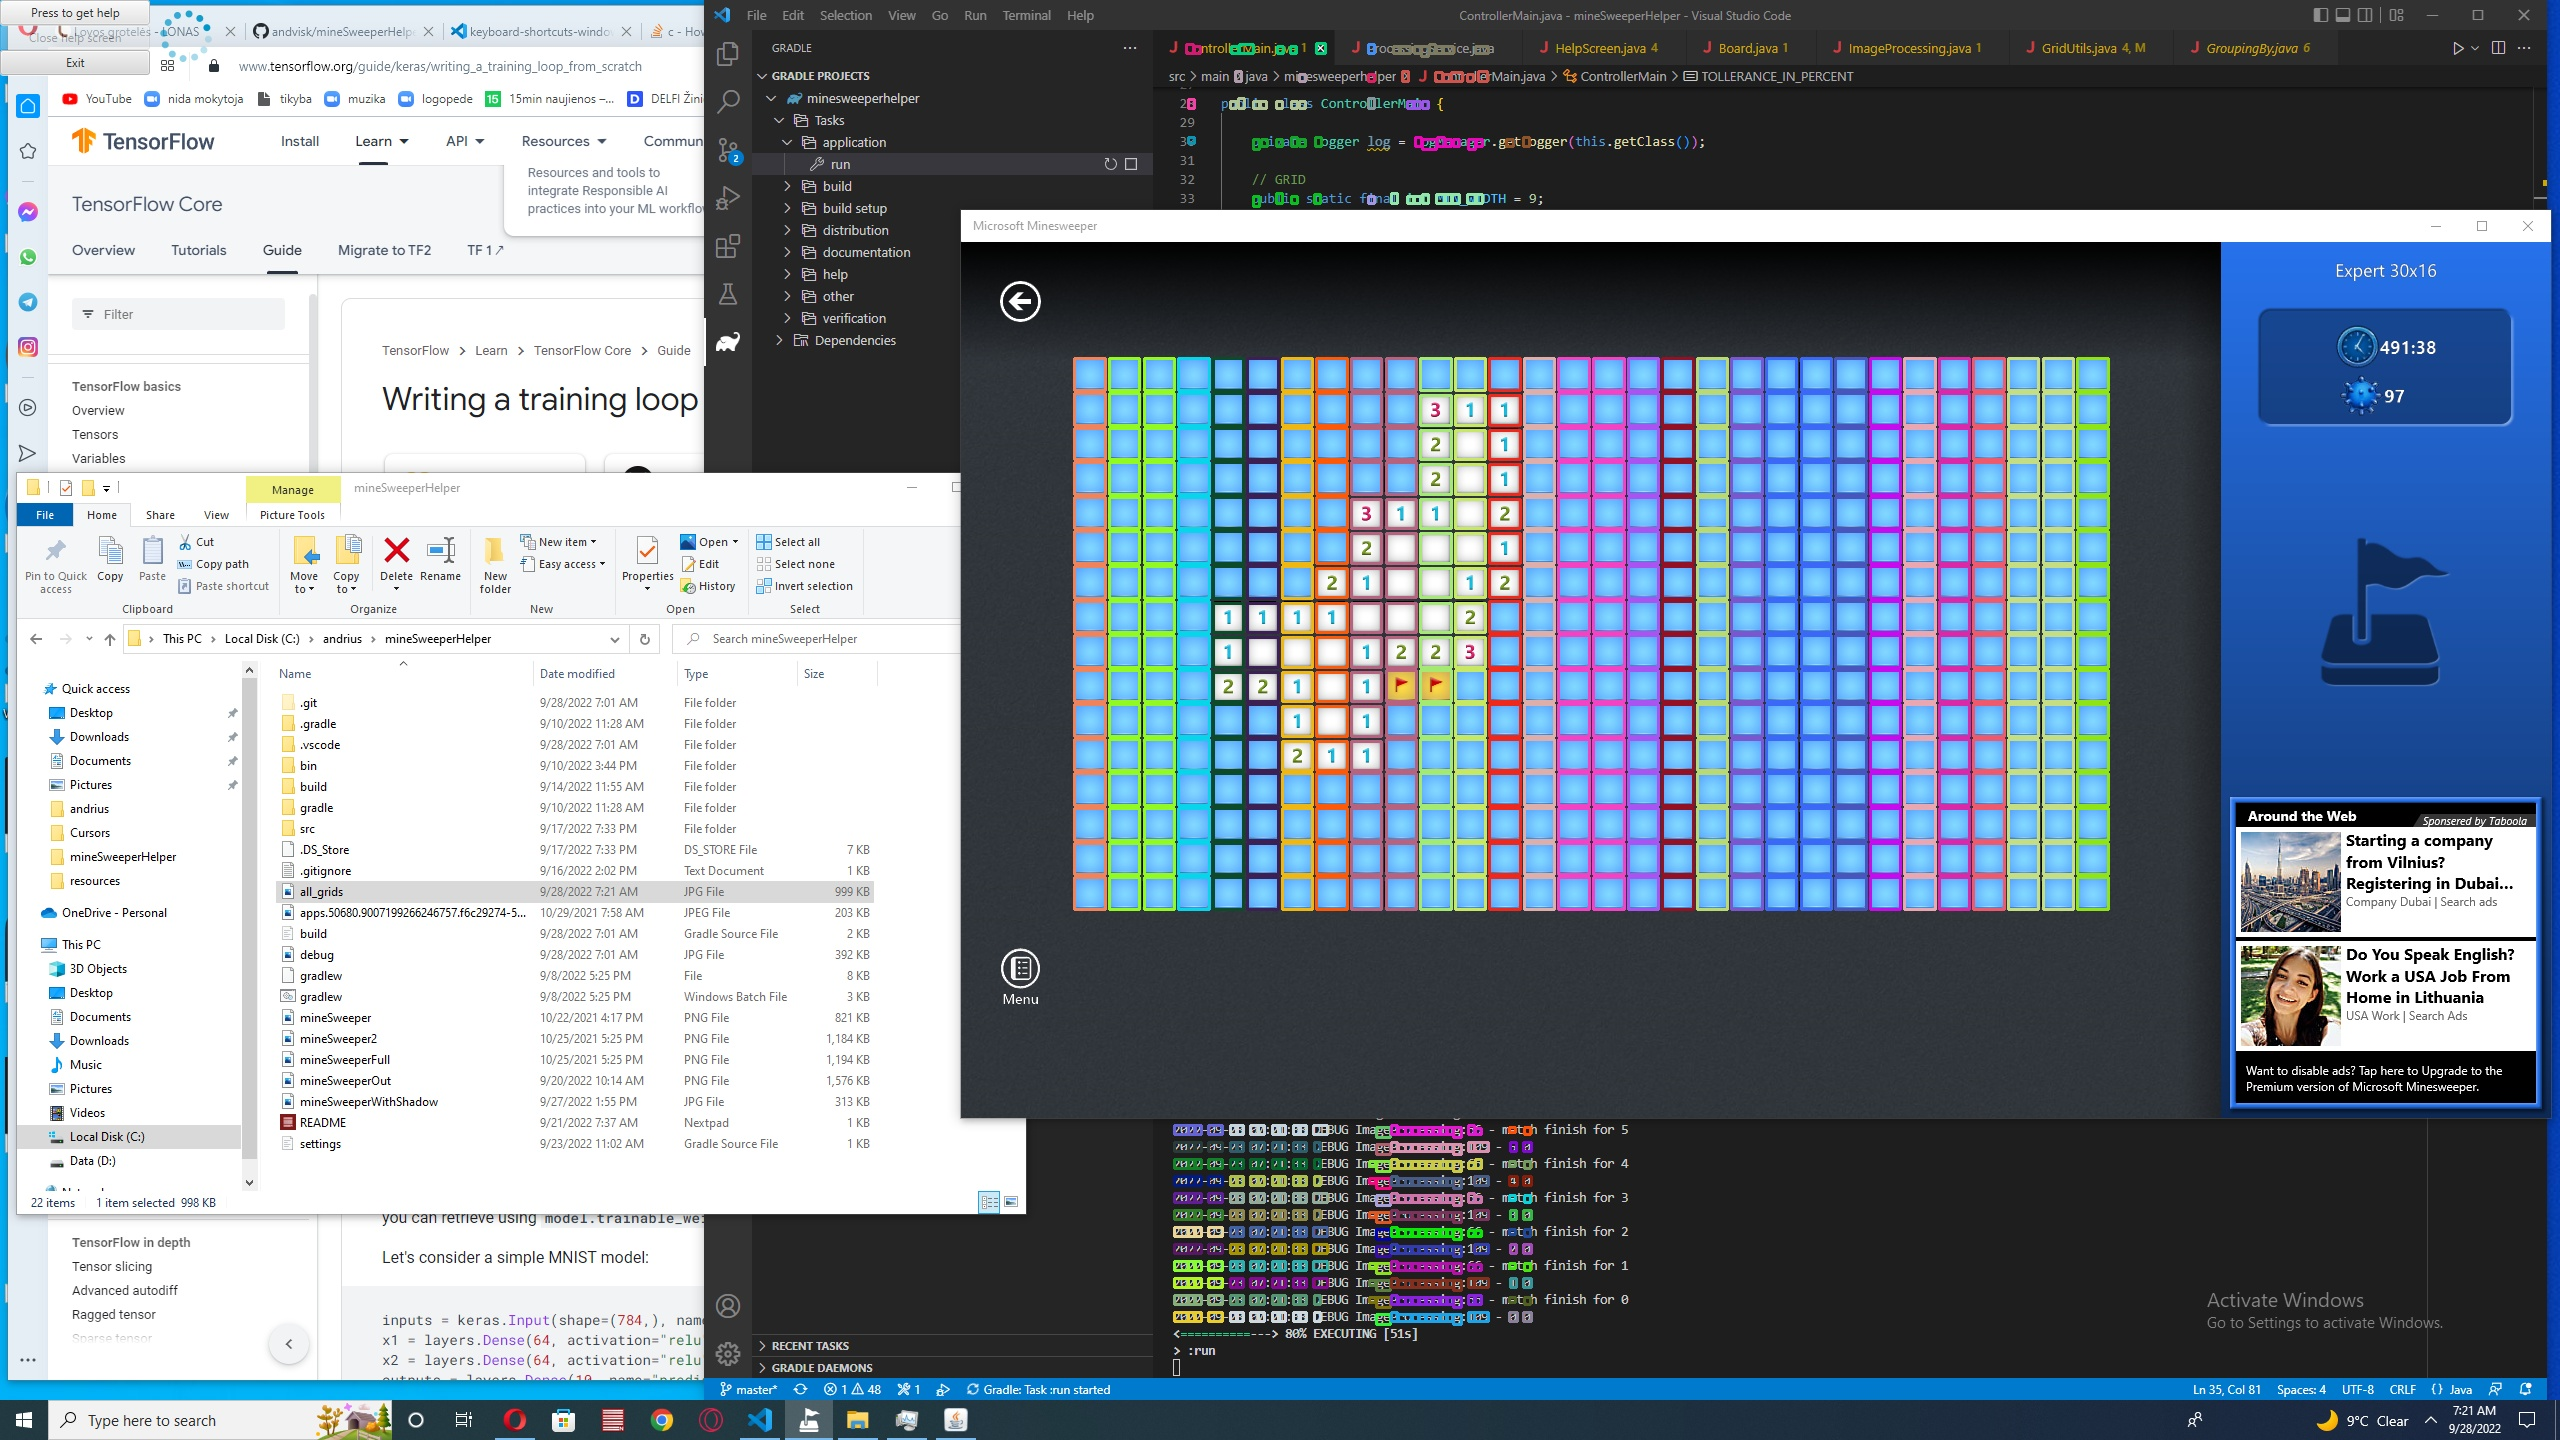
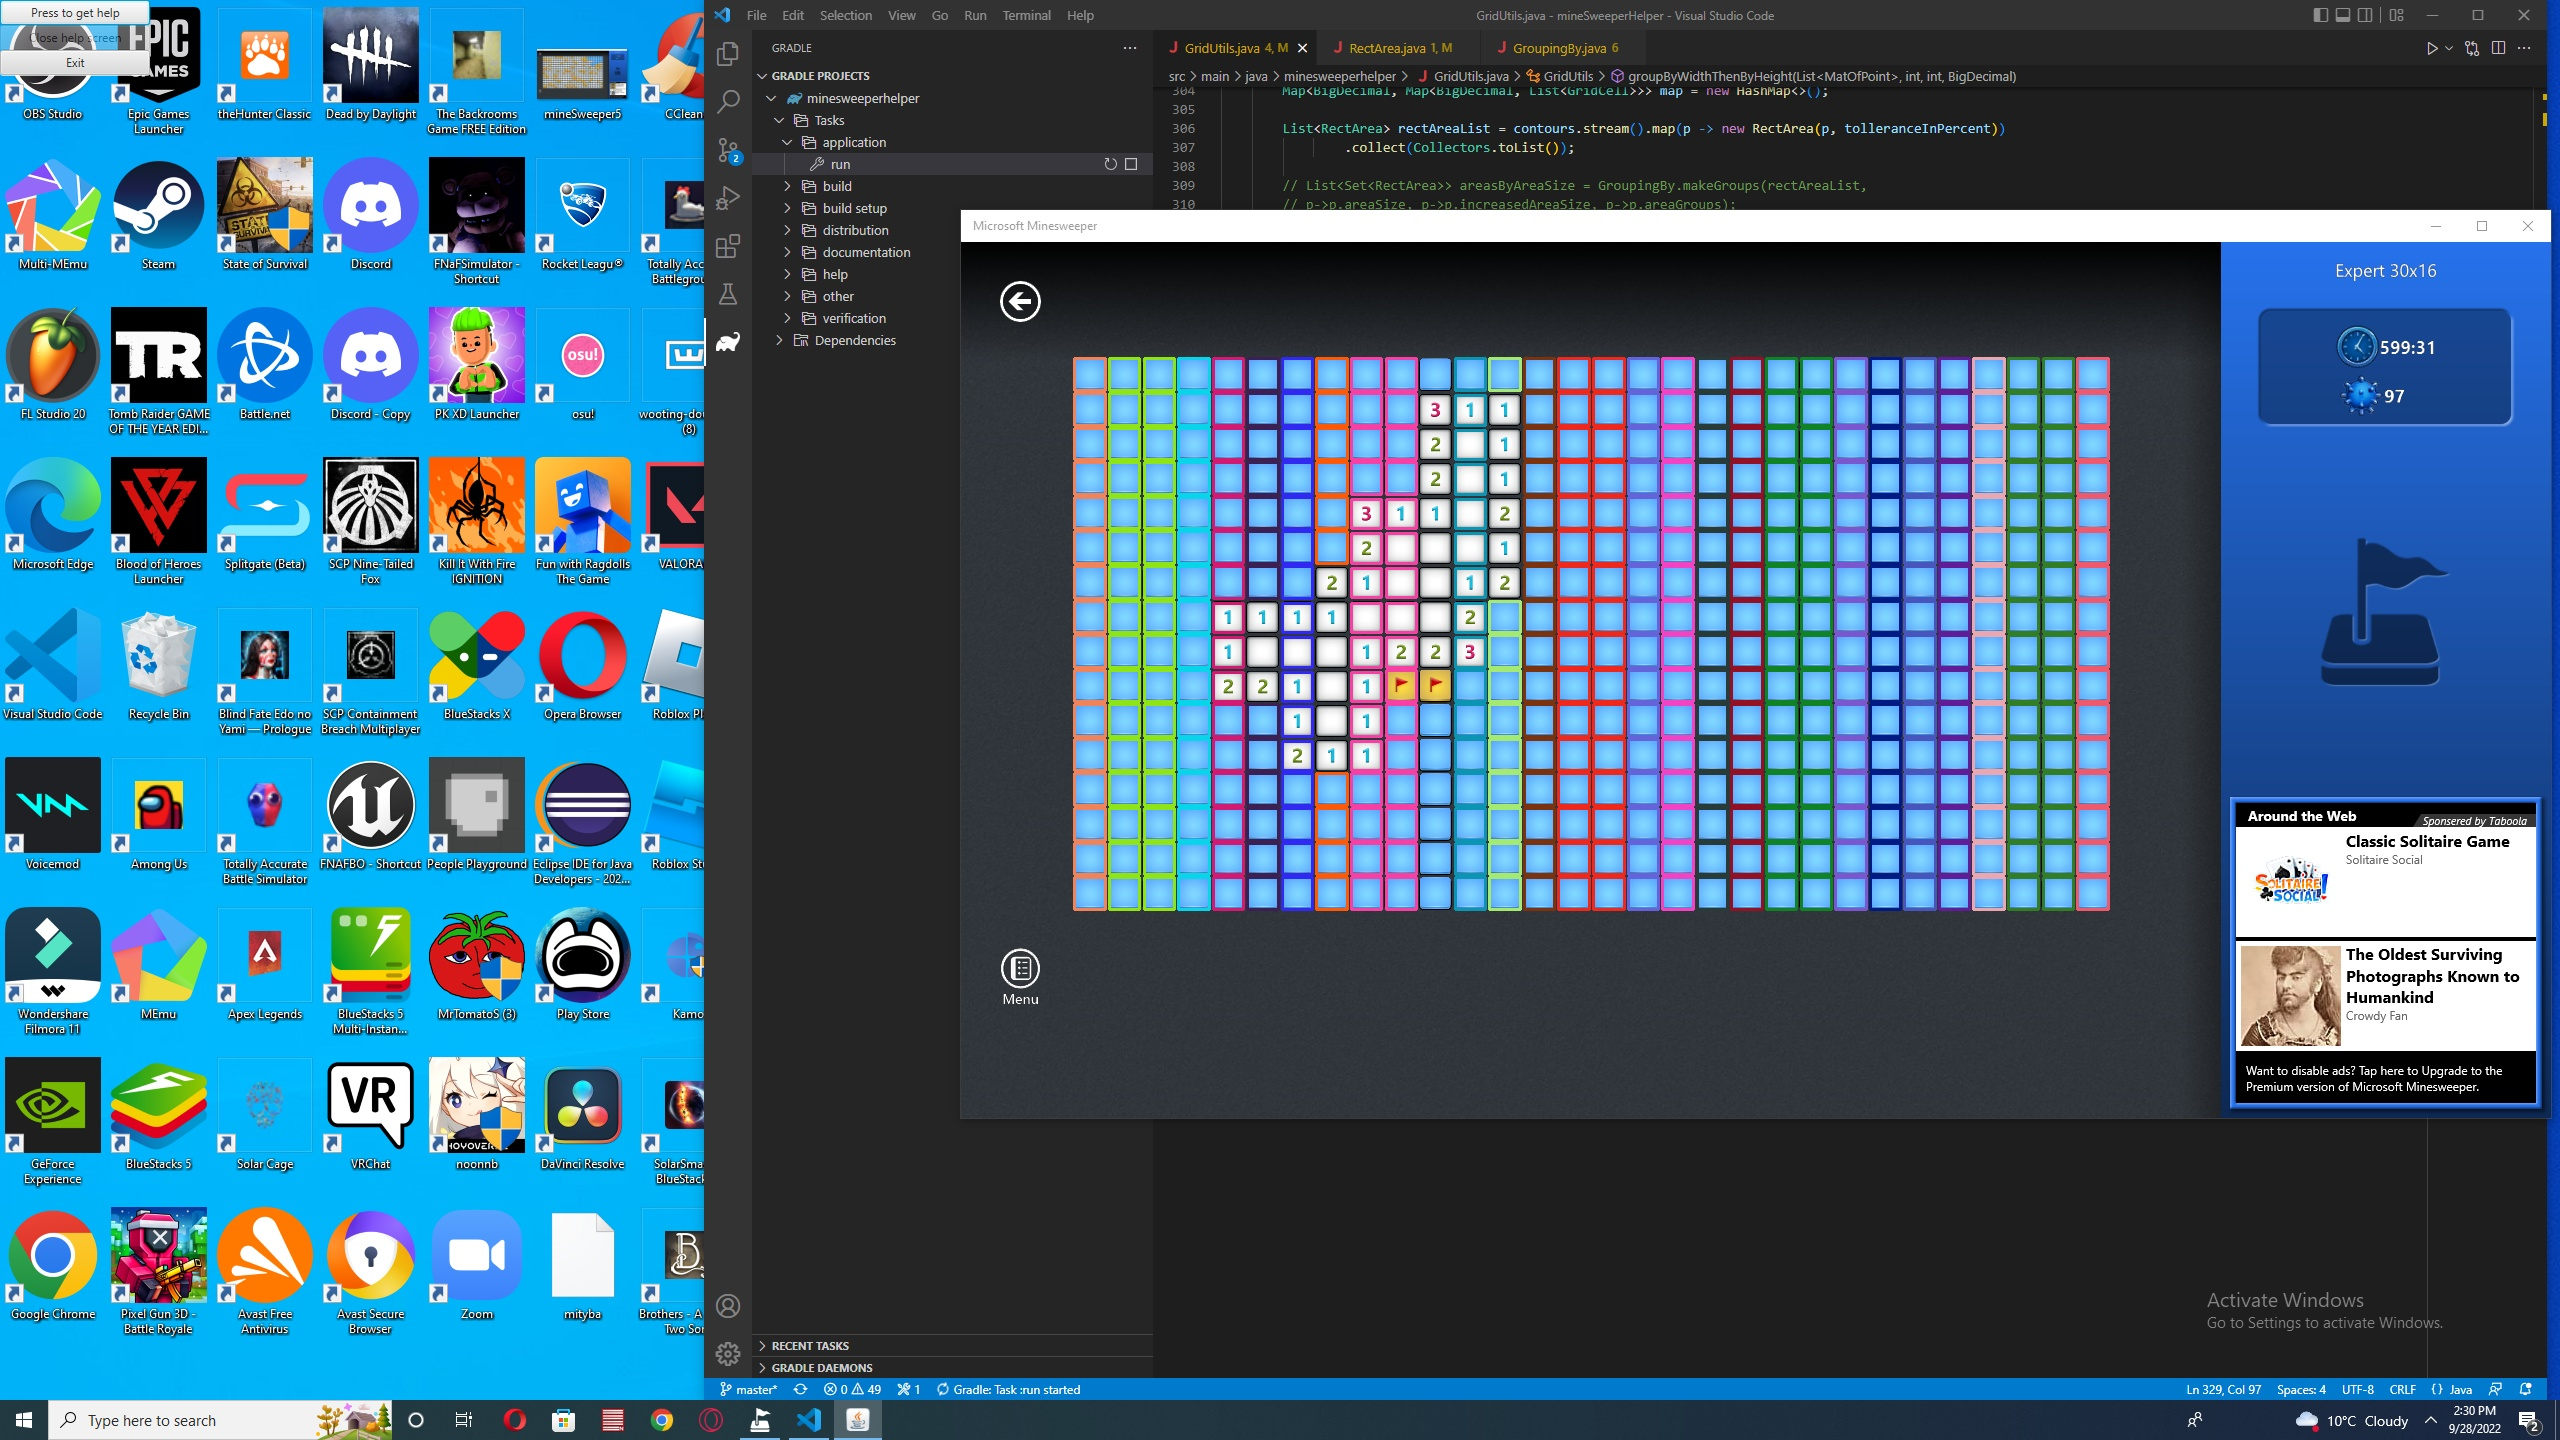
.

diff --git a/src/main/java/minesweeperhelper/GridUtils.java b/src/main/java/minesweeperhelper/GridUtils.java
@@ -309,25 +309,30 @@ public class GridUtils {
         // List<Set<RectArea>> areasByAreaSize = GroupingBy.makeGroups(rectAreaList,
         // p->p.areaSize, p->p.increasedAreaSize, p->p.areaGroups);
         List<Set<RectArea>> areasByWidth = GroupingBy.makeGroups(rectAreaList, p -> p.width, p -> p.widthIncreased,
-                p -> p.widthGroups).stream().sorted((a,b)->Integer.compare(a.size(), b.size())).toList();
+                p -> p.widthGroups).stream().sorted((a, b) -> Integer.compare(a.size(), b.size())).toList();
         List<Set<RectArea>> areasByHeight = GroupingBy.makeGroups(rectAreaList, p -> p.height, p -> p.heightIncreased,
-                p -> p.heightGroups).stream().sorted((a,b)->Integer.compare(a.size(), b.size())).toList();;
+                p -> p.heightGroups).stream().sorted((a, b) -> Integer.compare(a.size(), b.size())).toList();
+        ;
 
-        for (RectArea recArea : rectAreaList) {
-            for (Set<RectArea> setWidth : recArea.widthGroups) {
-                for (Set<RectArea> setHeight : recArea.heightGroups) {
-                    Set<RectArea> testSet = new HashSet<>(setWidth);
-                    testSet.retainAll(setHeight);
-                    if(testSet.size() > recArea.sizeOfMaxGroup){
-                        recArea.sizeOfMaxGroup = testSet.size();
-                        recArea.maxHeightGroup = setHeight;
-                        recArea.maxWidthGroup = setWidth;
-                    }
+        for (Set<RectArea> setByWidth : areasByWidth) {
+            for (RectArea recArea : setByWidth) {
+                if (setByWidth.size() > recArea.sizeOfMaxWidthGroup) {
+                    recArea.sizeOfMaxWidthGroup = setByWidth.size();
                 }
             }
         }
 
-        rectAreaList = rectAreaList.stream().sorted((a,b)->Integer.compare(a.sizeOfMaxGroup, b.sizeOfMaxGroup)).collect(Collectors.toList());
+        for (Set<RectArea> setByHeight : areasByHeight) {
+            for (RectArea recArea : setByHeight) {
+                if (setByHeight.size() > recArea.sizeOfMaxHeightGroup) {
+                    recArea.sizeOfMaxHeightGroup = setByHeight.size();
+                    recArea.weight = recArea.sizeOfMaxHeightGroup * recArea.sizeOfMaxWidthGroup;
+                }
+            }
+        }
+
+        rectAreaList = rectAreaList.stream().sorted((a, b) -> Integer.compare(a.weight, b.weight))
+                .collect(Collectors.toList());
 
         // map by width
         Map<BigDecimal, List<GridCell>> mapByWidth = convertToGridCells(GroupingBy.approximate(contours,

diff --git a/src/main/java/minesweeperhelper/RectArea.java b/src/main/java/minesweeperhelper/RectArea.java
@@ -28,10 +28,9 @@ public class RectArea {
     public List<Set<RectArea>> widthGroups = new ArrayList<>();
     public List<Set<RectArea>> heightGroups = new ArrayList<>();
 
-    Set<RectArea> maxWidthGroup = new HashSet<>();
-    Set<RectArea> maxHeightGroup = new HashSet<>();
-
-    int sizeOfMaxGroup = -1;
+    int sizeOfMaxWidthGroup = -1;
+    int sizeOfMaxHeightGroup = -1;
+    int weight = -1;
 
     public RectArea(MatOfPoint contour, BigDecimal tollerance){
         rectangle = Imgproc.boundingRect(contour);
